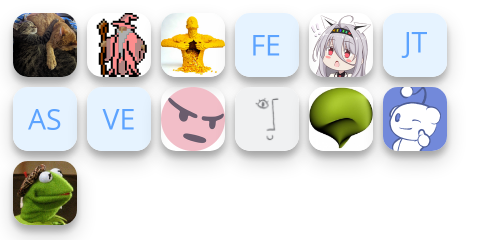
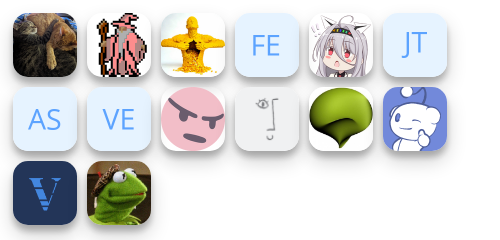
Sponsor Update

Changed region(s): [[0.0, 0.6708, 0.33, 0.9917]]

diff --git a/sponsors.html b/sponsors.html
@@ -1,7 +1,7 @@
 <html lang="en" style="height: 240px;width: 500px">
     <body>
     <ul style="margin: 0;padding: 0;list-style: none;">
-        <li style="display: inline"><img src='https://images.opencollective.com/kyle-wood/57ef452/avatar.png' alt='Kyle Wood' title='Kyle Wood' onerror='this.src="https://opencollective.com/static/images/default-guest-logo.svg"' style="height: 64px;width: 64px;margin: 5px;border-radius: 15px;box-shadow: 0 10px 20px rgba(0,0,0,0.19), 0 6px 6px rgba(0,0,0,0.23);"/></li><li style="display: inline"><img src='https://images.opencollective.com/notmyfault/8026388/avatar.png' alt='NotMyFault' title='NotMyFault' onerror='this.src="https://opencollective.com/static/images/default-guest-logo.svg"' style="height: 64px;width: 64px;margin: 5px;border-radius: 15px;box-shadow: 0 10px 20px rgba(0,0,0,0.19), 0 6px 6px rgba(0,0,0,0.23);"/></li><li style="display: inline"><img src='https://images.opencollective.com/minidigger/d330b74/avatar.png' alt='MiniDigger | Martin' title='MiniDigger | Martin' onerror='this.src="https://opencollective.com/static/images/default-guest-logo.svg"' style="height: 64px;width: 64px;margin: 5px;border-radius: 15px;box-shadow: 0 10px 20px rgba(0,0,0,0.19), 0 6px 6px rgba(0,0,0,0.23);"/></li><li style="display: inline"><img src='https://images.opencollective.com/guest-75cfb38d/avatar.png' alt='fergydanny' title='fergydanny' onerror='this.src="https://opencollective.com/static/images/default-guest-logo.svg"' style="height: 64px;width: 64px;margin: 5px;border-radius: 15px;box-shadow: 0 10px 20px rgba(0,0,0,0.19), 0 6px 6px rgba(0,0,0,0.23);"/></li><li style="display: inline"><img src='https://images.opencollective.com/paper-chan/21d649c/avatar.png' alt='Paper Chan' title='Paper Chan' onerror='this.src="https://opencollective.com/static/images/default-guest-logo.svg"' style="height: 64px;width: 64px;margin: 5px;border-radius: 15px;box-shadow: 0 10px 20px rgba(0,0,0,0.19), 0 6px 6px rgba(0,0,0,0.23);"/></li><li style="display: inline"><img src='https://images.opencollective.com/josh-taylor/avatar.png' alt='Josh Taylor' title='Josh Taylor' onerror='this.src="https://opencollective.com/static/images/default-guest-logo.svg"' style="height: 64px;width: 64px;margin: 5px;border-radius: 15px;box-shadow: 0 10px 20px rgba(0,0,0,0.19), 0 6px 6px rgba(0,0,0,0.23);"/></li><li style="display: inline"><img src='https://images.opencollective.com/andrew-steinborn/avatar.png' alt='Andrew Steinborn' title='Andrew Steinborn' onerror='this.src="https://opencollective.com/static/images/default-guest-logo.svg"' style="height: 64px;width: 64px;margin: 5px;border-radius: 15px;box-shadow: 0 10px 20px rgba(0,0,0,0.19), 0 6px 6px rgba(0,0,0,0.23);"/></li><li style="display: inline"><img src='https://images.opencollective.com/guest-2a86fc3c/avatar.png' alt='Velnias75' title='Velnias75' onerror='this.src="https://opencollective.com/static/images/default-guest-logo.svg"' style="height: 64px;width: 64px;margin: 5px;border-radius: 15px;box-shadow: 0 10px 20px rgba(0,0,0,0.19), 0 6px 6px rgba(0,0,0,0.23);"/></li><li style="display: inline"><img src='https://images.opencollective.com/sweepy/48b009d/avatar.png' alt='Sweepy' title='Sweepy' onerror='this.src="https://opencollective.com/static/images/default-guest-logo.svg"' style="height: 64px;width: 64px;margin: 5px;border-radius: 15px;box-shadow: 0 10px 20px rgba(0,0,0,0.19), 0 6px 6px rgba(0,0,0,0.23);"/></li><li style="display: inline"><img src='https://images.opencollective.com/guest-cff6bbb4/avatar.png' alt='Guest' title='Guest' onerror='this.src="https://opencollective.com/static/images/default-guest-logo.svg"' style="height: 64px;width: 64px;margin: 5px;border-radius: 15px;box-shadow: 0 10px 20px rgba(0,0,0,0.19), 0 6px 6px rgba(0,0,0,0.23);"/></li><li style="display: inline"><img src='https://avatars.githubusercontent.com/u/181668?v=4' alt='mbax' title='mbax' onerror='this.src="https://opencollective.com/static/images/default-guest-logo.svg"' style="height: 64px;width: 64px;margin: 5px;border-radius: 15px;box-shadow: 0 10px 20px rgba(0,0,0,0.19), 0 6px 6px rgba(0,0,0,0.23);"/></li><li style="display: inline"><img src='https://avatars.githubusercontent.com/u/44026893?u=1aa282d38edd1262d618ee4ec268cbf1c922f5b9' alt='NoahvdAa' title='NoahvdAa' onerror='this.src="https://opencollective.com/static/images/default-guest-logo.svg"' style="height: 64px;width: 64px;margin: 5px;border-radius: 15px;box-shadow: 0 10px 20px rgba(0,0,0,0.19), 0 6px 6px rgba(0,0,0,0.23);"/></li><li style="display: inline"><img src='https://avatars.githubusercontent.com/u/76139600?u=0bb341b30a36a575ad2b4b68b9720529ecc14e9f' alt='sulu5890' title='sulu5890' onerror='this.src="https://opencollective.com/static/images/default-guest-logo.svg"' style="height: 64px;width: 64px;margin: 5px;border-radius: 15px;box-shadow: 0 10px 20px rgba(0,0,0,0.19), 0 6px 6px rgba(0,0,0,0.23);"/></li>
+        <li style="display: inline"><img src='https://images.opencollective.com/kyle-wood/57ef452/avatar.png' alt='Kyle Wood' title='Kyle Wood' onerror='this.src="https://opencollective.com/static/images/default-guest-logo.svg"' style="height: 64px;width: 64px;margin: 5px;border-radius: 15px;box-shadow: 0 10px 20px rgba(0,0,0,0.19), 0 6px 6px rgba(0,0,0,0.23);"/></li><li style="display: inline"><img src='https://images.opencollective.com/notmyfault/8026388/avatar.png' alt='NotMyFault' title='NotMyFault' onerror='this.src="https://opencollective.com/static/images/default-guest-logo.svg"' style="height: 64px;width: 64px;margin: 5px;border-radius: 15px;box-shadow: 0 10px 20px rgba(0,0,0,0.19), 0 6px 6px rgba(0,0,0,0.23);"/></li><li style="display: inline"><img src='https://images.opencollective.com/minidigger/d330b74/avatar.png' alt='MiniDigger | Martin' title='MiniDigger | Martin' onerror='this.src="https://opencollective.com/static/images/default-guest-logo.svg"' style="height: 64px;width: 64px;margin: 5px;border-radius: 15px;box-shadow: 0 10px 20px rgba(0,0,0,0.19), 0 6px 6px rgba(0,0,0,0.23);"/></li><li style="display: inline"><img src='https://images.opencollective.com/guest-75cfb38d/avatar.png' alt='fergydanny' title='fergydanny' onerror='this.src="https://opencollective.com/static/images/default-guest-logo.svg"' style="height: 64px;width: 64px;margin: 5px;border-radius: 15px;box-shadow: 0 10px 20px rgba(0,0,0,0.19), 0 6px 6px rgba(0,0,0,0.23);"/></li><li style="display: inline"><img src='https://images.opencollective.com/paper-chan/21d649c/avatar.png' alt='Paper Chan' title='Paper Chan' onerror='this.src="https://opencollective.com/static/images/default-guest-logo.svg"' style="height: 64px;width: 64px;margin: 5px;border-radius: 15px;box-shadow: 0 10px 20px rgba(0,0,0,0.19), 0 6px 6px rgba(0,0,0,0.23);"/></li><li style="display: inline"><img src='https://images.opencollective.com/josh-taylor/avatar.png' alt='Josh Taylor' title='Josh Taylor' onerror='this.src="https://opencollective.com/static/images/default-guest-logo.svg"' style="height: 64px;width: 64px;margin: 5px;border-radius: 15px;box-shadow: 0 10px 20px rgba(0,0,0,0.19), 0 6px 6px rgba(0,0,0,0.23);"/></li><li style="display: inline"><img src='https://images.opencollective.com/andrew-steinborn/avatar.png' alt='Andrew Steinborn' title='Andrew Steinborn' onerror='this.src="https://opencollective.com/static/images/default-guest-logo.svg"' style="height: 64px;width: 64px;margin: 5px;border-radius: 15px;box-shadow: 0 10px 20px rgba(0,0,0,0.19), 0 6px 6px rgba(0,0,0,0.23);"/></li><li style="display: inline"><img src='https://images.opencollective.com/guest-2a86fc3c/avatar.png' alt='Velnias75' title='Velnias75' onerror='this.src="https://opencollective.com/static/images/default-guest-logo.svg"' style="height: 64px;width: 64px;margin: 5px;border-radius: 15px;box-shadow: 0 10px 20px rgba(0,0,0,0.19), 0 6px 6px rgba(0,0,0,0.23);"/></li><li style="display: inline"><img src='https://images.opencollective.com/sweepy/48b009d/avatar.png' alt='Sweepy' title='Sweepy' onerror='this.src="https://opencollective.com/static/images/default-guest-logo.svg"' style="height: 64px;width: 64px;margin: 5px;border-radius: 15px;box-shadow: 0 10px 20px rgba(0,0,0,0.19), 0 6px 6px rgba(0,0,0,0.23);"/></li><li style="display: inline"><img src='https://images.opencollective.com/guest-cff6bbb4/avatar.png' alt='Guest' title='Guest' onerror='this.src="https://opencollective.com/static/images/default-guest-logo.svg"' style="height: 64px;width: 64px;margin: 5px;border-radius: 15px;box-shadow: 0 10px 20px rgba(0,0,0,0.19), 0 6px 6px rgba(0,0,0,0.23);"/></li><li style="display: inline"><img src='https://avatars.githubusercontent.com/u/181668?v=4' alt='mbax' title='mbax' onerror='this.src="https://opencollective.com/static/images/default-guest-logo.svg"' style="height: 64px;width: 64px;margin: 5px;border-radius: 15px;box-shadow: 0 10px 20px rgba(0,0,0,0.19), 0 6px 6px rgba(0,0,0,0.23);"/></li><li style="display: inline"><img src='https://avatars.githubusercontent.com/u/44026893?u=1aa282d38edd1262d618ee4ec268cbf1c922f5b9' alt='NoahvdAa' title='NoahvdAa' onerror='this.src="https://opencollective.com/static/images/default-guest-logo.svg"' style="height: 64px;width: 64px;margin: 5px;border-radius: 15px;box-shadow: 0 10px 20px rgba(0,0,0,0.19), 0 6px 6px rgba(0,0,0,0.23);"/></li><li style="display: inline"><img src='https://avatars.githubusercontent.com/u/60553050?u=c35dc5606c9fb2471479c74750f8664cb28b4c73' alt='VQ9' title='VQ9' onerror='this.src="https://opencollective.com/static/images/default-guest-logo.svg"' style="height: 64px;width: 64px;margin: 5px;border-radius: 15px;box-shadow: 0 10px 20px rgba(0,0,0,0.19), 0 6px 6px rgba(0,0,0,0.23);"/></li><li style="display: inline"><img src='https://avatars.githubusercontent.com/u/76139600?u=0bb341b30a36a575ad2b4b68b9720529ecc14e9f' alt='sulu5890' title='sulu5890' onerror='this.src="https://opencollective.com/static/images/default-guest-logo.svg"' style="height: 64px;width: 64px;margin: 5px;border-radius: 15px;box-shadow: 0 10px 20px rgba(0,0,0,0.19), 0 6px 6px rgba(0,0,0,0.23);"/></li>
     </ul>
     </body>
     </html>
